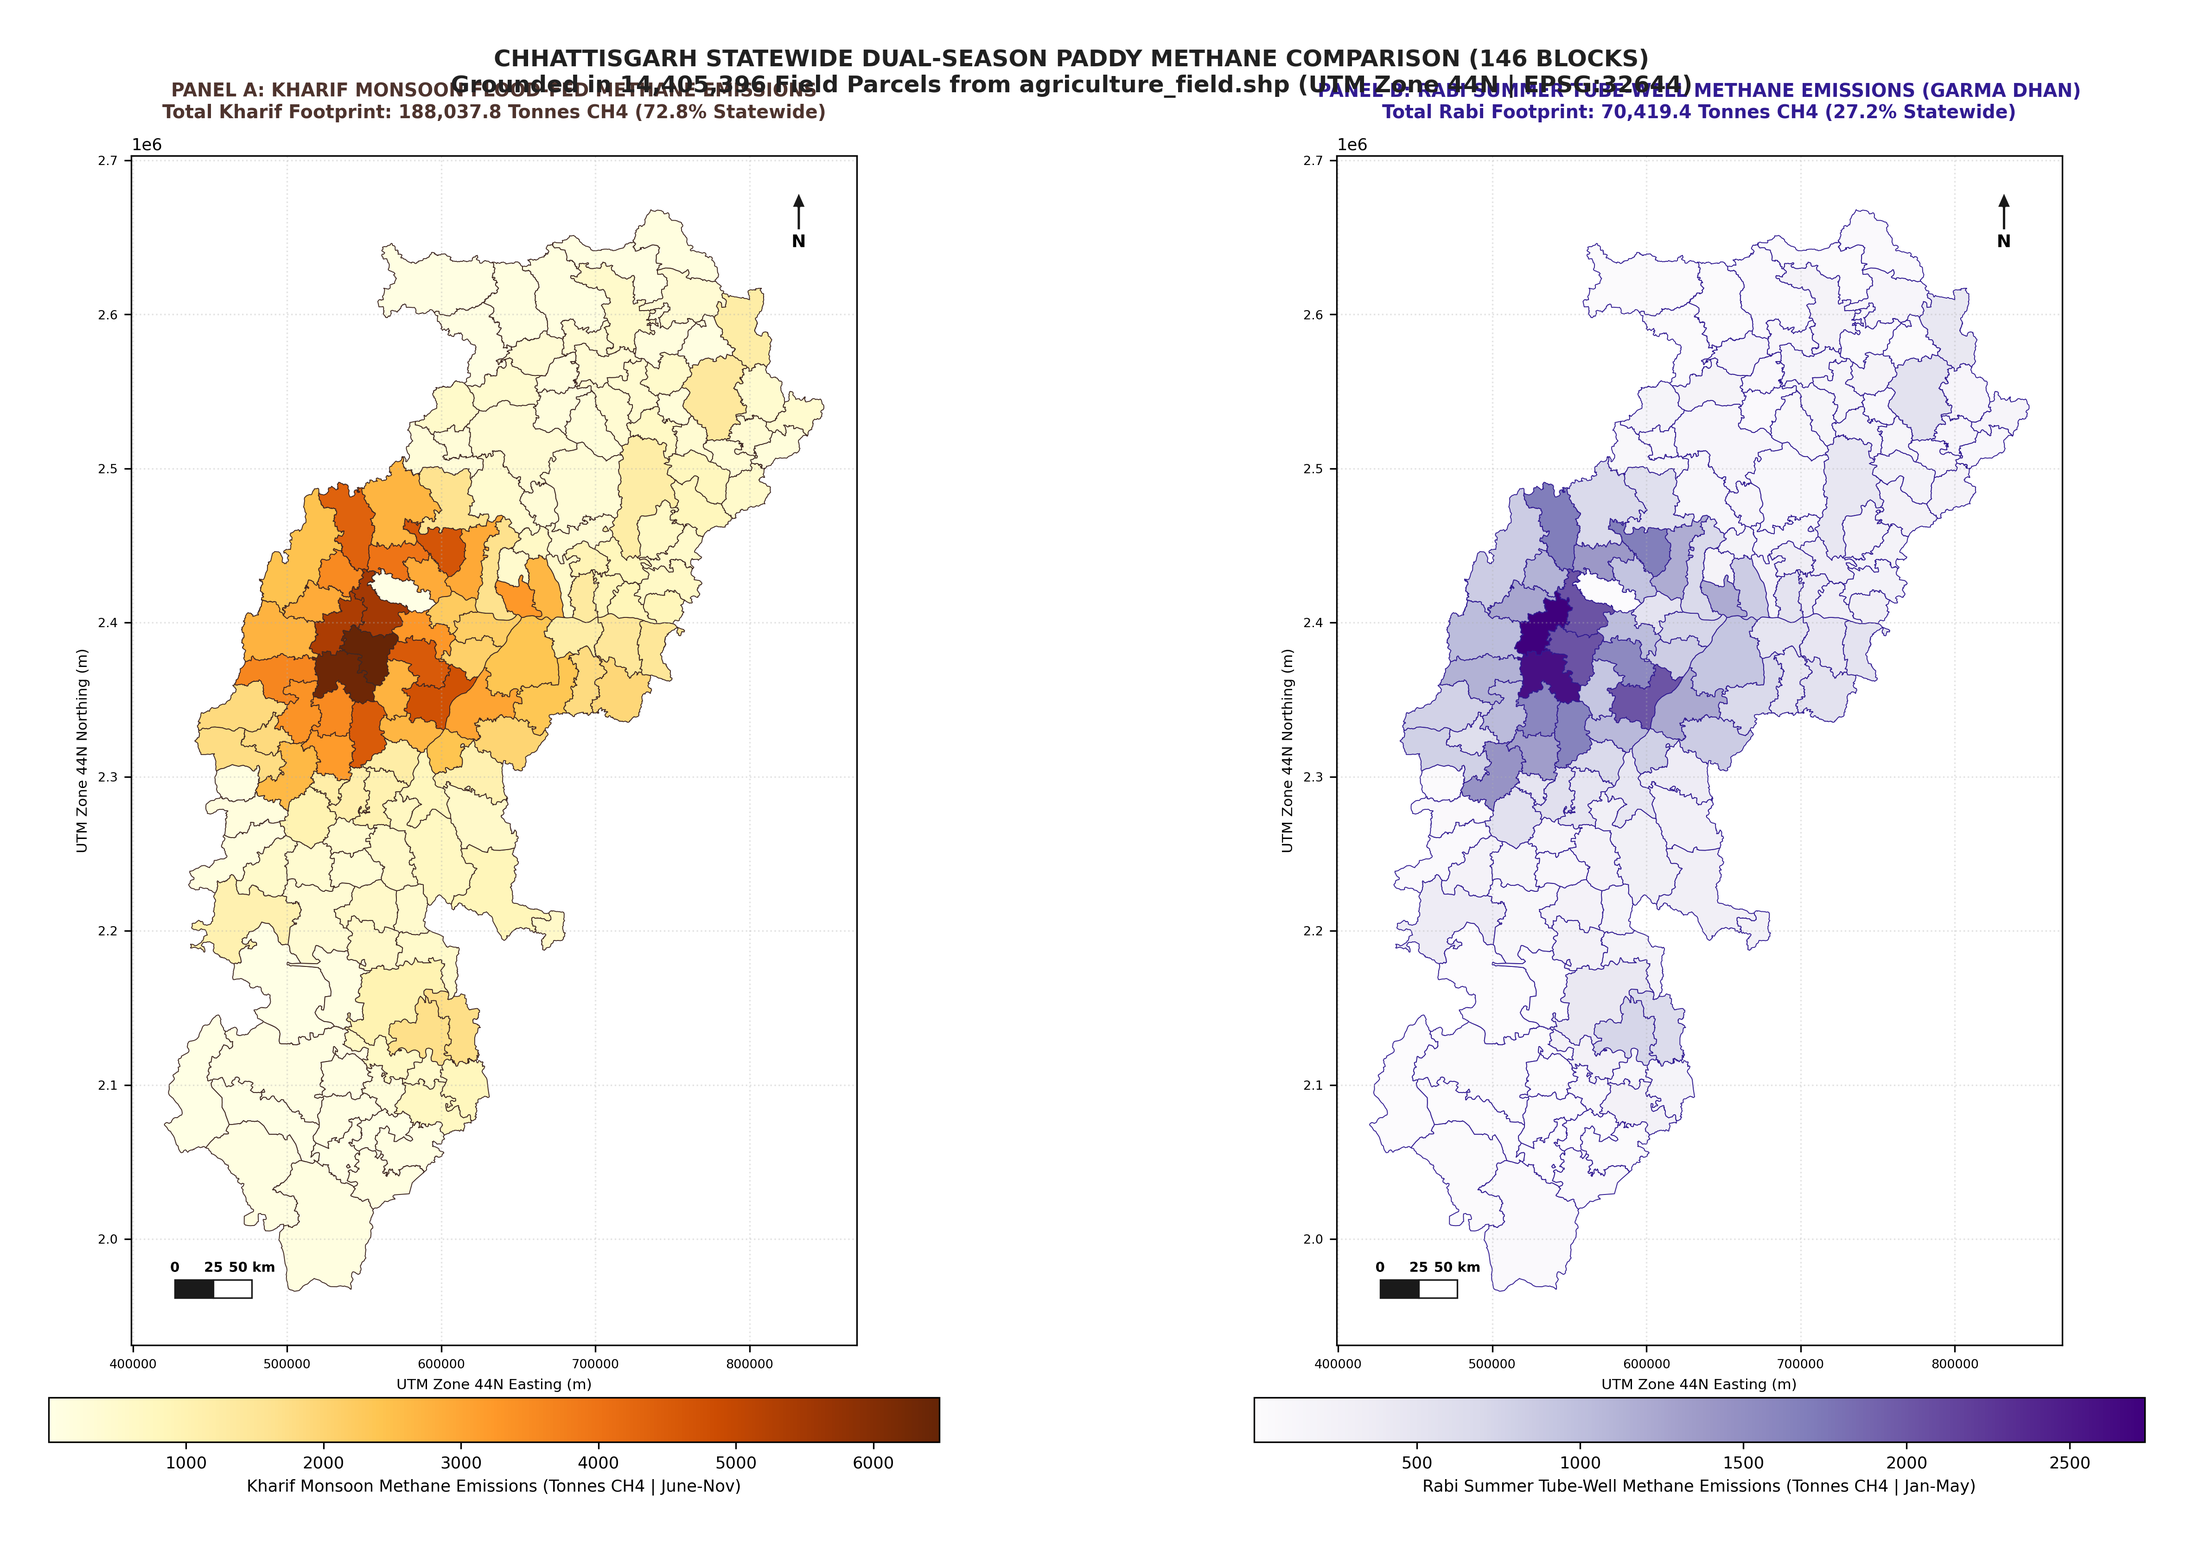
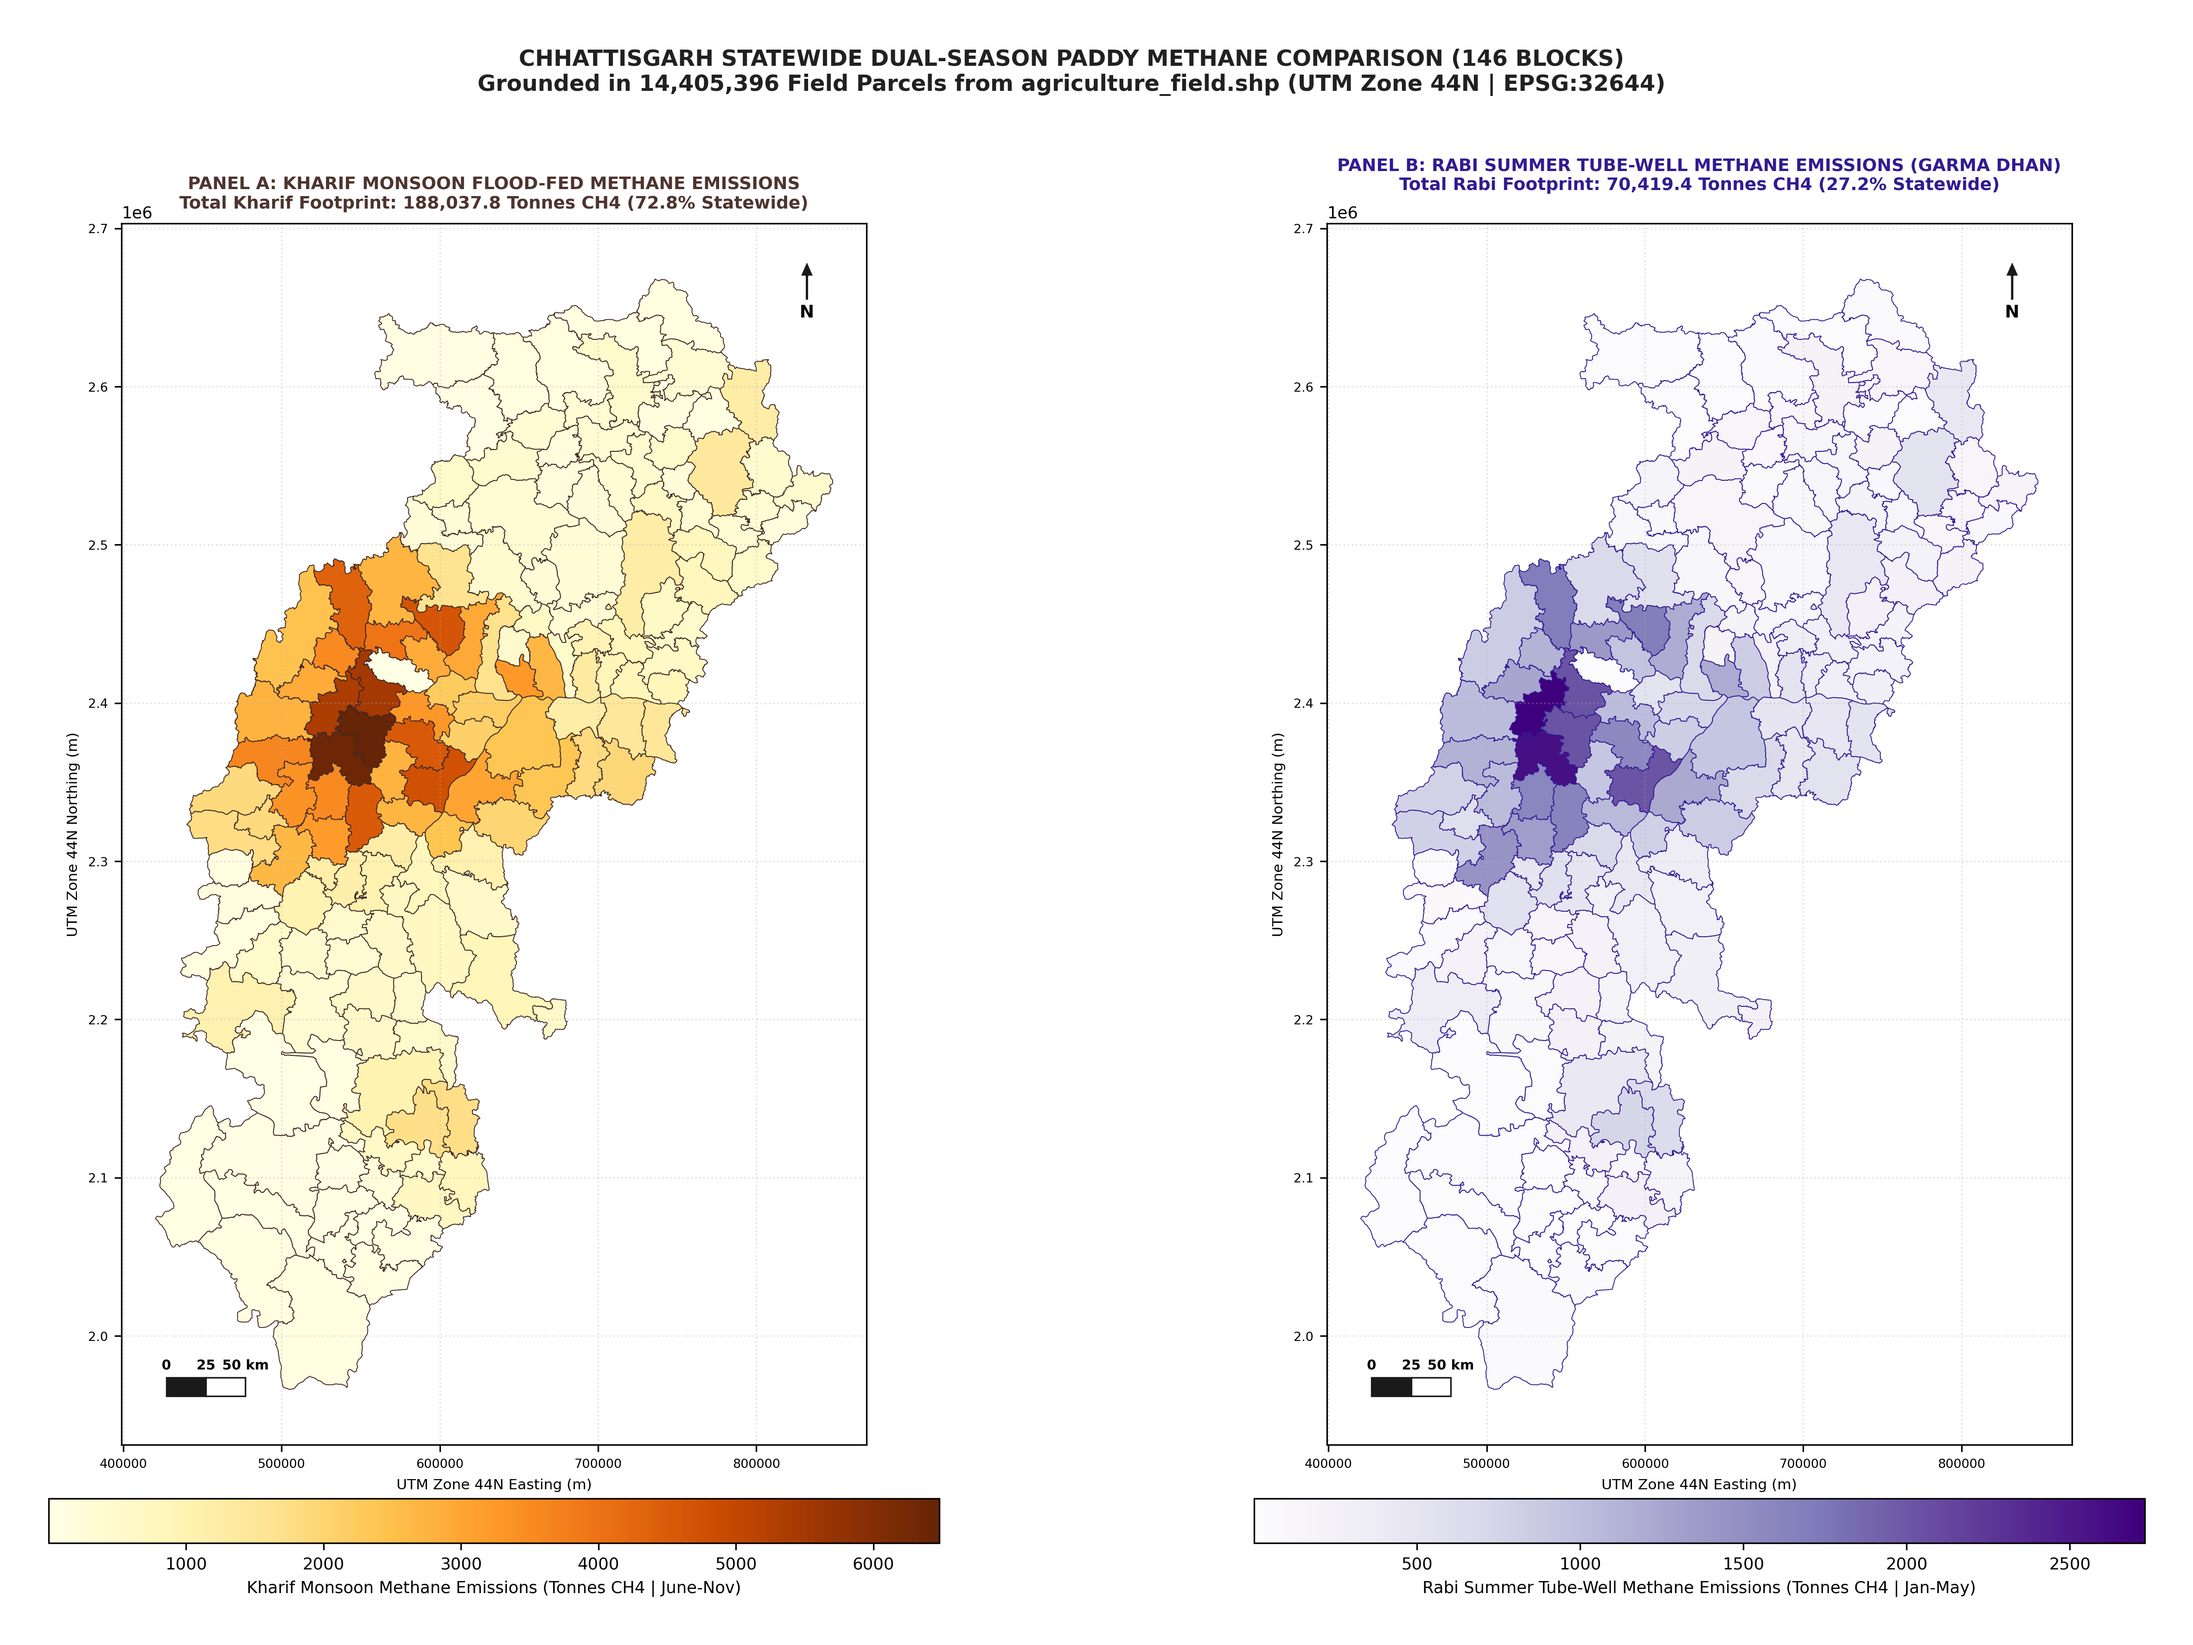
fix: resolve title overlap in statewide kharif vs rabi and awd mitigation plates

diff --git a/index.html b/index.html
@@ -340,7 +340,7 @@
           </div>
         </div>
         <div class="plate-img-wrapper" onclick="openCurrentPlateLightbox()">
-          <img id="plate-img" src="outputs/figures/01_agriculture_field_statewide_methane_analysis_300dpi.png?v=1794404819" alt="Cartography Plate">
+          <img id="plate-img" src="outputs/figures/01_agriculture_field_statewide_methane_analysis_300dpi.png?v=1794405629" alt="Cartography Plate">
         </div>
       </div>
     </div>
@@ -384,7 +384,7 @@
           <button class="nav-tab-btn" onclick="openCurrentBlockLightbox()">🔍 View Full Resolution</button>
         </div>
         <div class="block-img-container" onclick="openCurrentBlockLightbox()">
-          <img id="block-main-img" src="outputs/figures/block_field_maps/block_3639_patan_field_map.png?v=1794404819" alt="Block Field Map">
+          <img id="block-main-img" src="outputs/figures/block_field_maps/block_3639_patan_field_map.png?v=1794405629" alt="Block Field Map">
         </div>
       </div>
     </div>

diff --git a/src/14_methane_analysis_from_user_shapefile.py b/src/14_methane_analysis_from_user_shapefile.py
@@ -503,7 +503,7 @@ def render_kharif_vs_rabi_methane_plate(df):
         how="left"
     )
 
-    fig, (ax1, ax2) = plt.subplots(1, 2, figsize=(18, 11), dpi=250)
+    fig, (ax1, ax2) = plt.subplots(1, 2, figsize=(18, 12), dpi=250)
 
     # Panel A: Kharif Monsoon Methane
     gdf_blocks.plot(
@@ -524,7 +524,7 @@ def render_kharif_vs_rabi_methane_plate(df):
     ax1.set_title(
         f"PANEL A: KHARIF MONSOON FLOOD-FED METHANE EMISSIONS\n"
         f"Total Kharif Footprint: {df['Seasonal_CH4_Tonnes_Kharif'].sum():,.1f} Tonnes CH4 (72.8% Statewide)",
-        fontsize=9.5, fontweight="bold", pad=10, color="#4e342e"
+        fontsize=9.0, fontweight="bold", pad=8, color="#4e342e"
     )
     ax1.set_xlabel("UTM Zone 44N Easting (m)", fontsize=7.5)
     ax1.set_ylabel("UTM Zone 44N Northing (m)", fontsize=7.5)
@@ -552,7 +552,7 @@ def render_kharif_vs_rabi_methane_plate(df):
     ax2.set_title(
         f"PANEL B: RABI SUMMER TUBE-WELL METHANE EMISSIONS (GARMA DHAN)\n"
         f"Total Rabi Footprint: {df['Seasonal_CH4_Tonnes_Rabi'].sum():,.1f} Tonnes CH4 (27.2% Statewide)",
-        fontsize=9.5, fontweight="bold", pad=10, color="#311b92"
+        fontsize=9.0, fontweight="bold", pad=8, color="#311b92"
     )
     ax2.set_xlabel("UTM Zone 44N Easting (m)", fontsize=7.5)
     ax2.set_ylabel("UTM Zone 44N Northing (m)", fontsize=7.5)
@@ -564,9 +564,9 @@ def render_kharif_vs_rabi_methane_plate(df):
     fig.suptitle(
         "CHHATTISGARH STATEWIDE DUAL-SEASON PADDY METHANE COMPARISON (146 BLOCKS)\n"
         "Grounded in 14,405,396 Field Parcels from agriculture_field.shp (UTM Zone 44N | EPSG:32644)",
-        fontsize=12, fontweight="bold", y=0.98, color="#212121"
+        fontsize=11.5, fontweight="bold", y=0.965, color="#212121"
     )
-    plt.subplots_adjust(top=0.91, bottom=0.06, left=0.06, right=0.96, wspace=0.15)
+    plt.subplots_adjust(top=0.86, bottom=0.06, left=0.06, right=0.96, wspace=0.15)
 
     out_fig = os.path.join(FIG_DIR, "02_statewide_kharif_vs_rabi_methane_blockwise.png")
     plt.savefig(out_fig, bbox_inches="tight", pad_inches=0.35)
@@ -591,7 +591,7 @@ def render_awd_mitigation_plate(df):
         how="left"
     )
 
-    fig, (ax1, ax2) = plt.subplots(1, 2, figsize=(18, 11), dpi=250)
+    fig, (ax1, ax2) = plt.subplots(1, 2, figsize=(18, 12), dpi=250)
 
     # Panel A: AWD CH4 Abatement Potential
     gdf_blocks.plot(
@@ -612,7 +612,7 @@ def render_awd_mitigation_plate(df):
     ax1.set_title(
         f"PANEL A: VERRA VM0042 AWD METHANE MITIGATION POTENTIAL\n"
         f"Statewide Abatement Capacity: {df['AWD_Total_CH4_Saved_Tonnes'].sum():,.1f} Tonnes CH4/year",
-        fontsize=9.5, fontweight="bold", pad=10, color="#1b5e20"
+        fontsize=9.0, fontweight="bold", pad=8, color="#1b5e20"
     )
     ax1.set_xlabel("UTM Zone 44N Easting (m)", fontsize=7.5)
     ax1.set_ylabel("UTM Zone 44N Northing (m)", fontsize=7.5)
@@ -640,7 +640,7 @@ def render_awd_mitigation_plate(df):
     ax2.set_title(
         f"PANEL B: ANNUAL VERRA VM0042 CARBON REVENUE POTENTIAL\n"
         f"Statewide Revenue: ₹{df['Annual_Carbon_Revenue_INR_Crore'].sum():,.1f} Crore/yr (${df['Annual_Carbon_Revenue_USD_15'].sum()/1e6:.2f}M USD)",
-        fontsize=9.5, fontweight="bold", pad=10, color="#004d40"
+        fontsize=9.0, fontweight="bold", pad=8, color="#004d40"
     )
     ax2.set_xlabel("UTM Zone 44N Easting (m)", fontsize=7.5)
     ax2.set_ylabel("UTM Zone 44N Northing (m)", fontsize=7.5)
@@ -652,9 +652,9 @@ def render_awd_mitigation_plate(df):
     fig.suptitle(
         "CHHATTISGARH STATEWIDE CARBON CREDIT & AWD MITIGATION ATLAS (146 BLOCKS)\n"
         "Derived Directly from agriculture_field.shp Physical Field Footprint (EPSG:32644)",
-        fontsize=12, fontweight="bold", y=0.98, color="#004d40"
+        fontsize=11.5, fontweight="bold", y=0.965, color="#004d40"
     )
-    plt.subplots_adjust(top=0.91, bottom=0.06, left=0.06, right=0.96, wspace=0.15)
+    plt.subplots_adjust(top=0.86, bottom=0.06, left=0.06, right=0.96, wspace=0.15)
 
     out_fig = os.path.join(FIG_DIR, "03_statewide_awd_methane_mitigation_and_carbon_credits.png")
     plt.savefig(out_fig, bbox_inches="tight", pad_inches=0.35)
@@ -672,7 +672,7 @@ def render_holding_size_distribution_plate(df):
     print("=" * 80)
     t0 = time.time()
 
-    fig, axes = plt.subplots(2, 2, figsize=(16, 12), dpi=300)
+    fig, axes = plt.subplots(2, 2, figsize=(16, 12.5), dpi=300)
     ((ax1, ax2), (ax3, ax4)) = axes
 
     # 1. Emission share by holding bracket
@@ -684,7 +684,7 @@ def render_holding_size_distribution_plate(df):
     ax1.pie(sizes, explode=explode, labels=labels, autopct="%1.1f%%",
             startangle=140, colors=colors, textprops={"fontsize": 8.5, "fontweight": "bold"})
     ax1.set_title("A. Statewide Methane Emissions by Farm Holding Size\n(94.2% Originates from Marginal Farmers < 1 ha)",
-                  fontsize=9.5, fontweight="bold", pad=10, color="#1b5e20")
+                  fontsize=9.0, fontweight="bold", pad=8, color="#1b5e20")
 
     # 2. Top 15 Emitters Bar Chart
     top15 = df.sort_values("Annual_CH4_Tonnes", ascending=False).head(15)
@@ -695,7 +695,7 @@ def render_holding_size_distribution_plate(df):
     ax2.invert_yaxis()
     ax2.set_xlabel("Annual Paddy Methane Emissions (Tonnes CH4/year)", fontsize=8.0)
     ax2.set_title("B. Top 15 Emission Hotspot Blocks in Chhattisgarh\n(Priorities for Village-Level AWD Pipe Rollout)",
-                  fontsize=9.5, fontweight="bold", pad=10, color="#b71c1c")
+                  fontsize=9.0, fontweight="bold", pad=8, color="#b71c1c")
     ax2.grid(True, linestyle=":", alpha=0.4, axis="x")
 
     # 3. AWD Mitigation Capacity vs Rice Area Scatter
@@ -707,7 +707,7 @@ def render_holding_size_distribution_plate(df):
     ax3.set_xlabel("Measured Agricultural Rice Extent (Hectares)", fontsize=8.0)
     ax3.set_ylabel("AWD Methane Abatement Capacity (Tonnes CH4)", fontsize=8.0)
     ax3.set_title("C. Block-Level AWD Mitigation vs. Rice Field Extent\n(Direct Scalability Across All 146 Blocks)",
-                  fontsize=9.5, fontweight="bold", pad=10, color="#004d40")
+                  fontsize=9.0, fontweight="bold", pad=8, color="#004d40")
     ax3.legend(fontsize=7.5, loc="upper left")
     ax3.grid(True, linestyle=":", alpha=0.4)
 
@@ -719,15 +719,15 @@ def render_holding_size_distribution_plate(df):
     ax4.set_xticklabels(dist_rev.index, rotation=35, ha="right", fontsize=7.5)
     ax4.set_ylabel("Annual Carbon Offset Value (₹ Crore / yr)", fontsize=8.0)
     ax4.set_title("D. Top 12 Districts by Verra VM0042 Carbon Revenue Potential\n(₹398 Crore Total Statewide Annual Opportunity)",
-                  fontsize=9.5, fontweight="bold", pad=10, color="#0d47a1")
+                  fontsize=9.0, fontweight="bold", pad=8, color="#0d47a1")
     ax4.grid(True, linestyle=":", alpha=0.4, axis="y")
 
     fig.suptitle(
         "CHHATTISGARH STATEWIDE AGRICULTURAL METHANE DIAGNOSTICS & MITIGATION CAPACITY\n"
         "Derived from 14,405,396 Measured Field Parcels in agriculture_field.shp (146 Blocks)",
-        fontsize=12, fontweight="bold", y=0.98, color="#212121"
+        fontsize=11.5, fontweight="bold", y=0.97, color="#212121"
     )
-    plt.subplots_adjust(top=0.91, bottom=0.08, left=0.07, right=0.95, hspace=0.28, wspace=0.22)
+    plt.subplots_adjust(top=0.88, bottom=0.08, left=0.07, right=0.95, hspace=0.28, wspace=0.22)
 
     out_fig = os.path.join(FIG_DIR, "04_methane_emissions_by_field_size_distribution.png")
     plt.savefig(out_fig, bbox_inches="tight", pad_inches=0.35)
